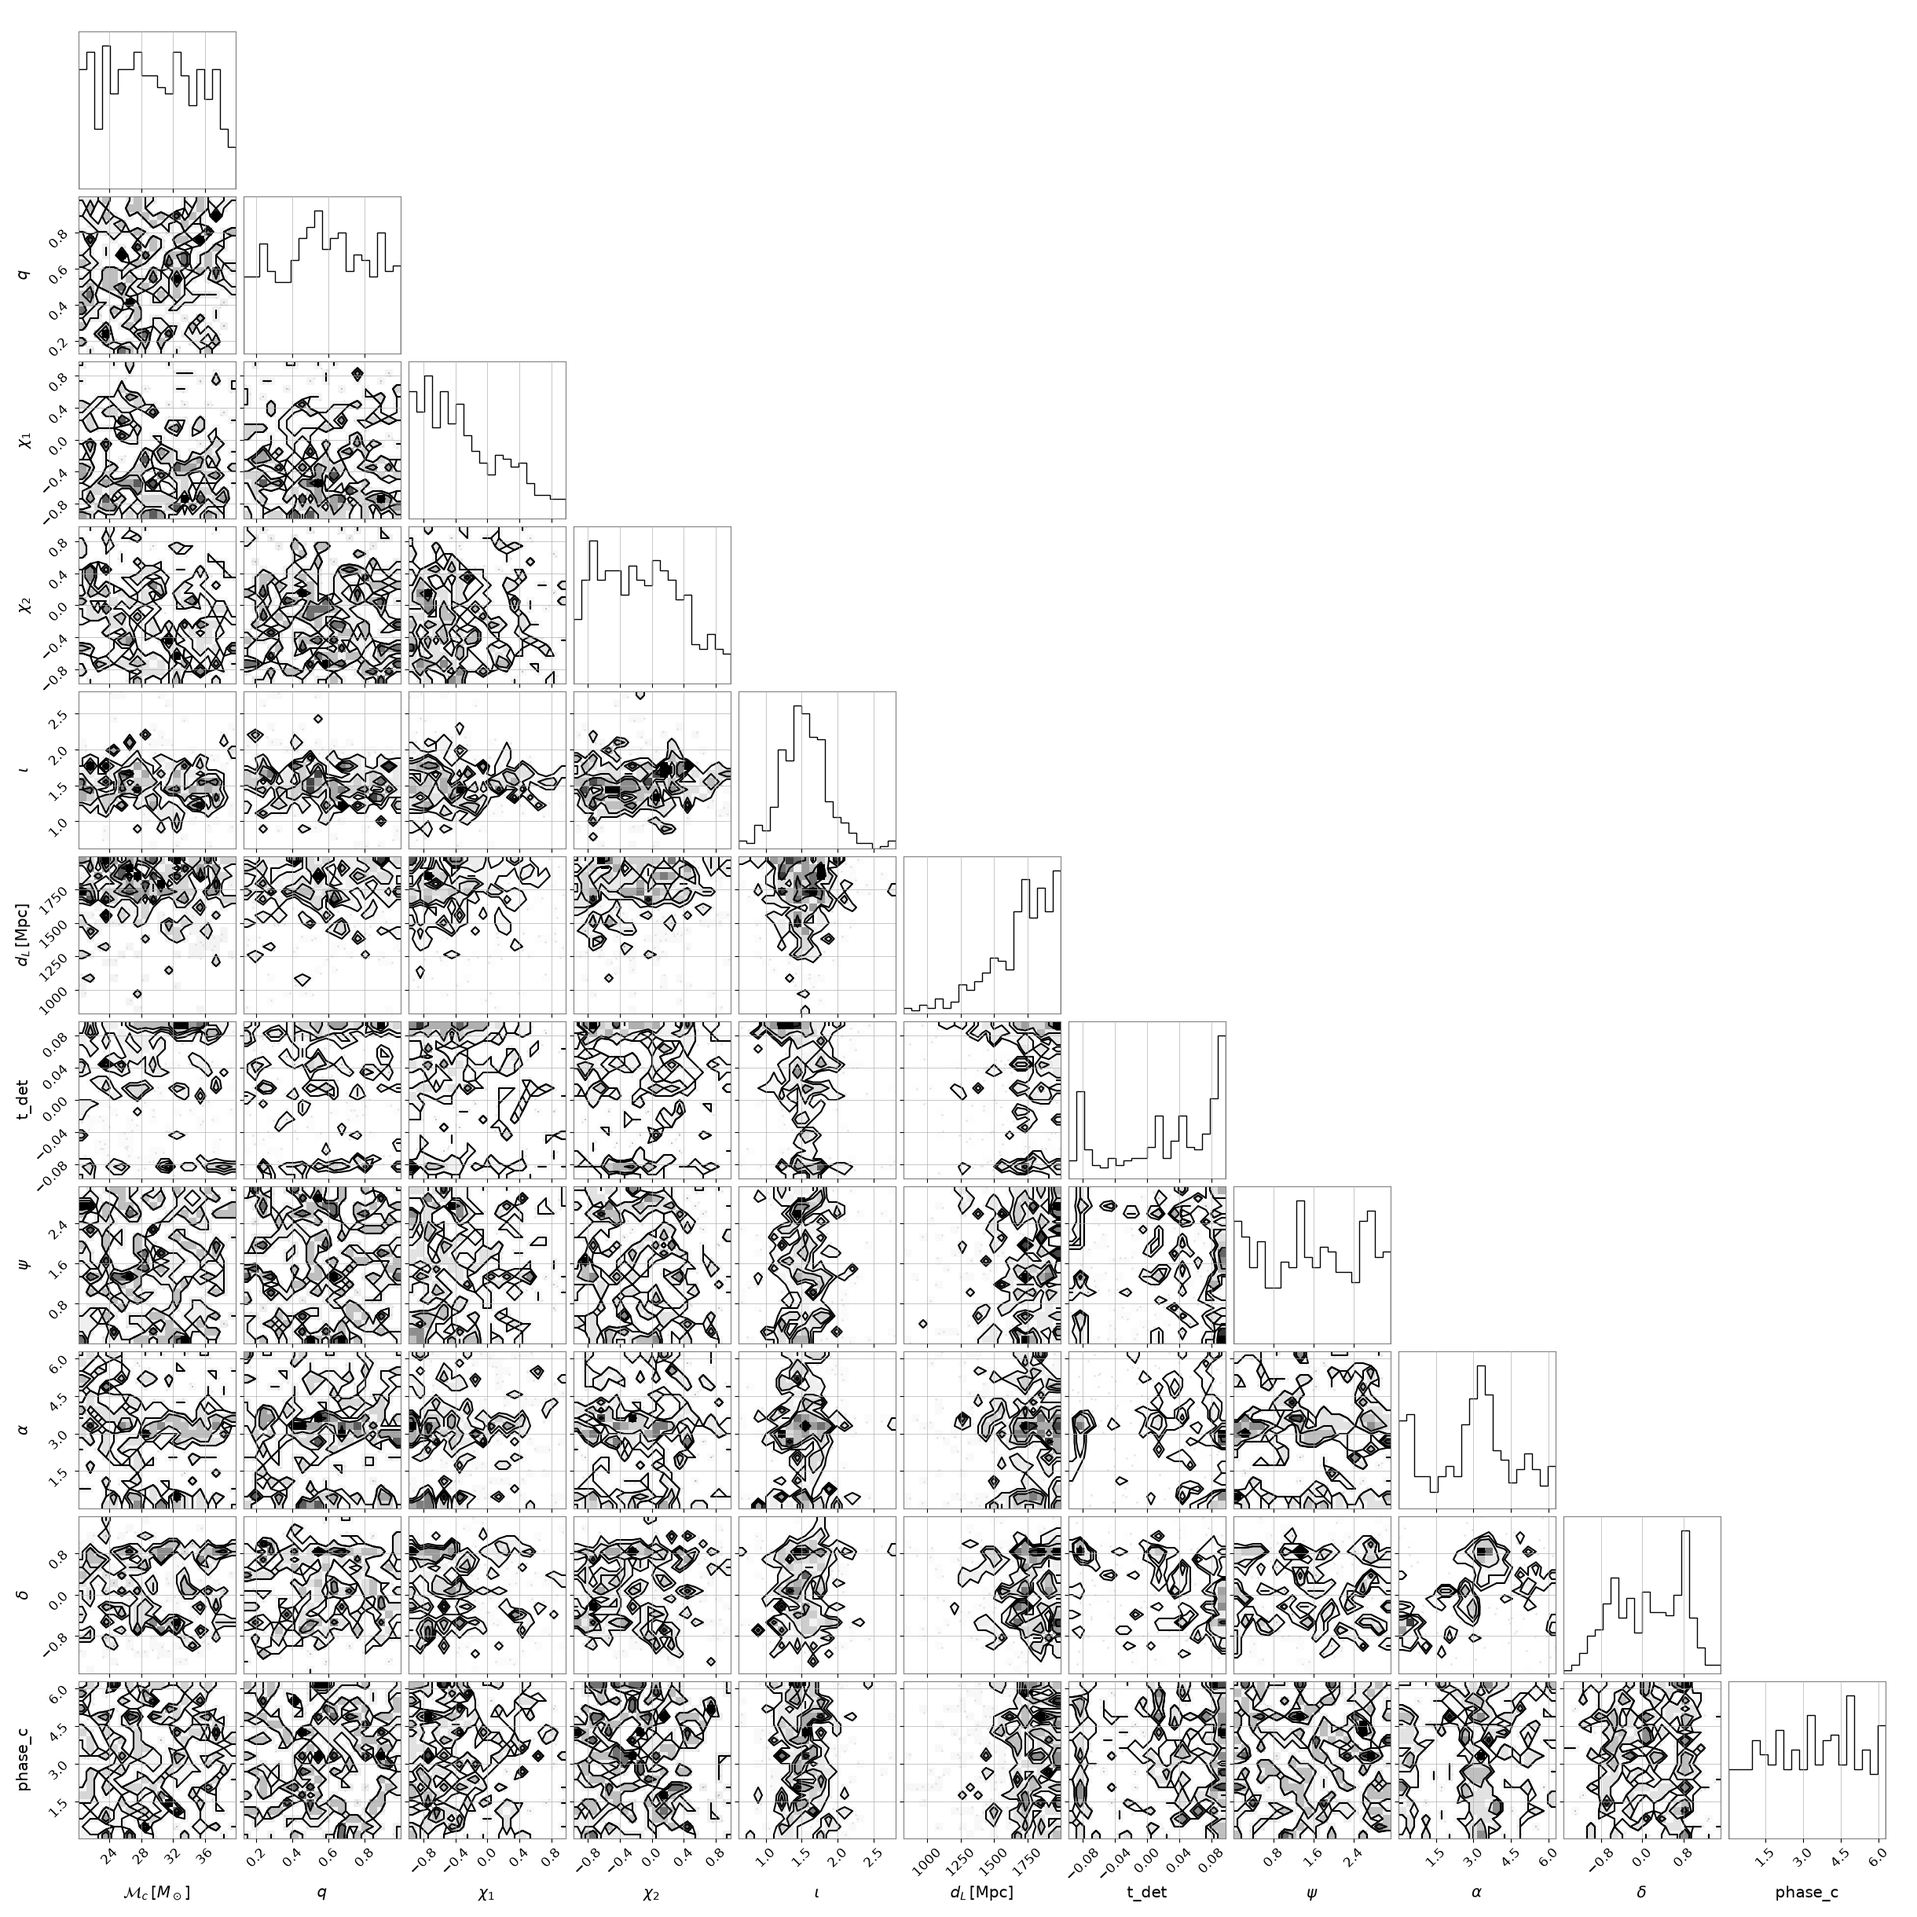
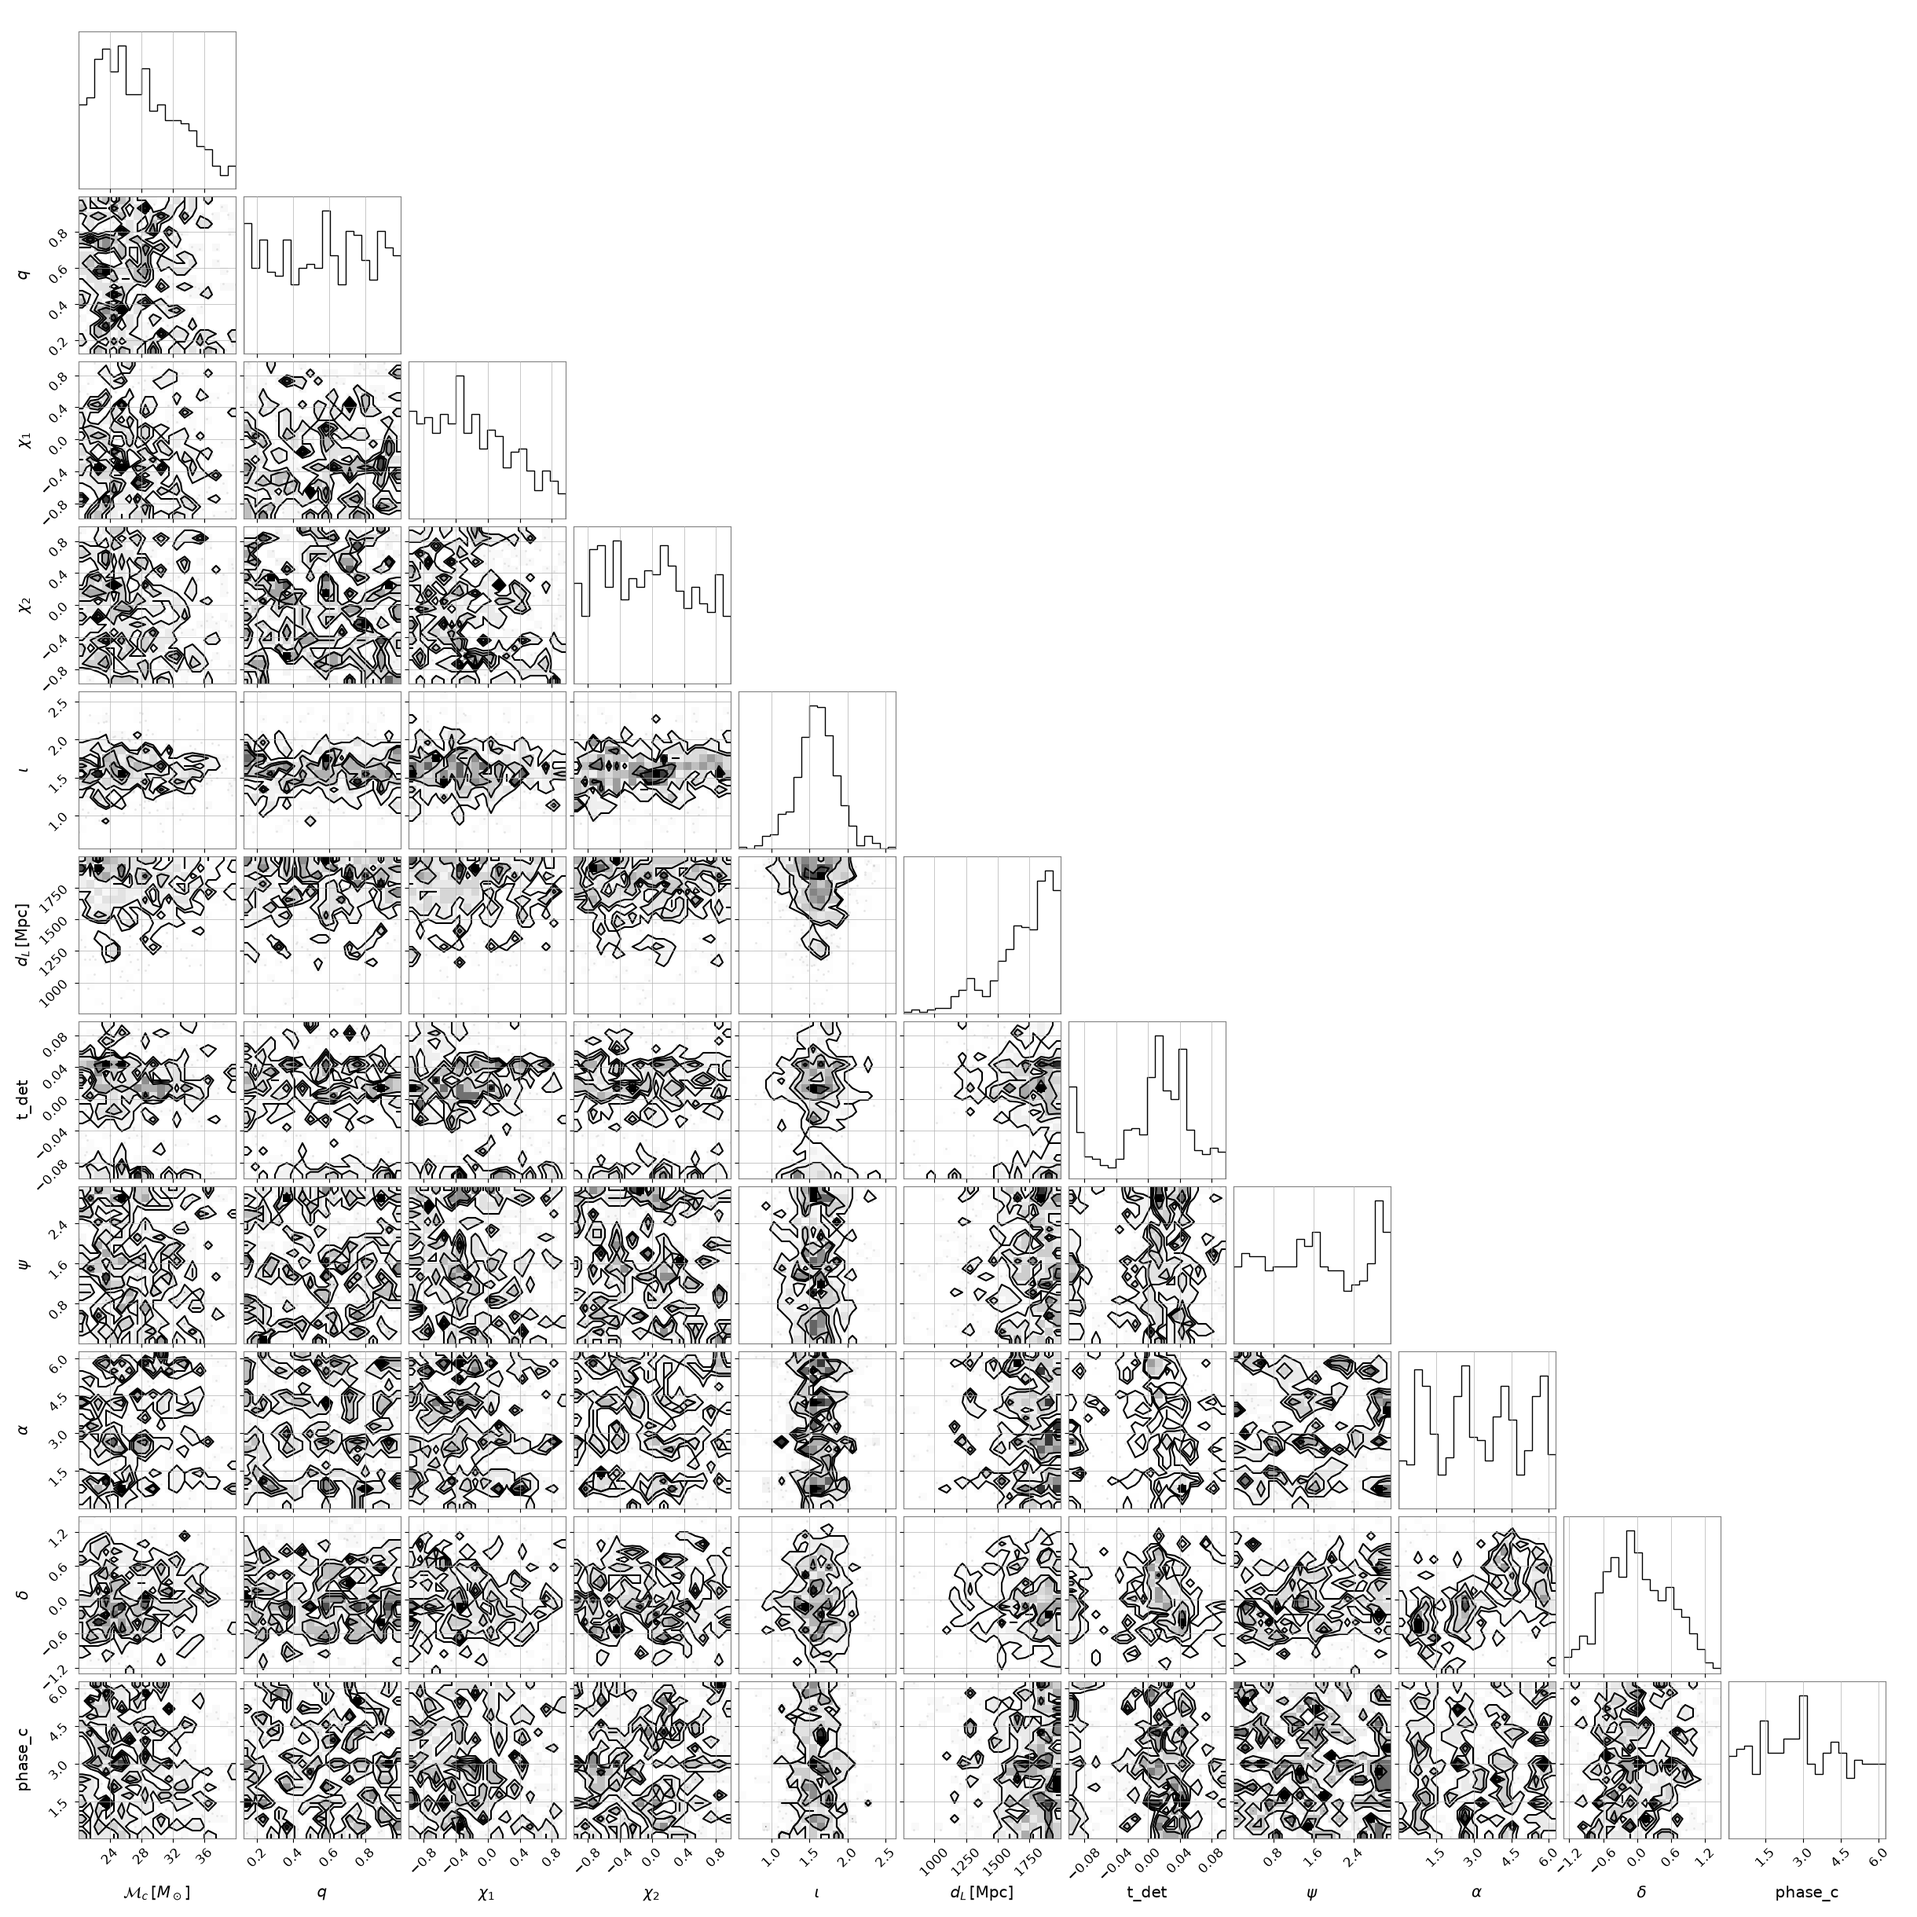
update

Changed region(s): [[0.0, 0.0311, 0.4672, 0.9656], [0.4984, 0.4984, 0.9967, 0.9967], [0.5295, 0.4672, 0.5607, 0.4984]]

diff --git a/Otmar_Thesis/GW150914_NS_AW_multiband_test.py b/Otmar_Thesis/GW150914_NS_AW_multiband_test.py
@@ -9,8 +9,10 @@ has_rocm = shutil.which("rocminfo") is not None or os.path.exists("/opt/rocm")
 if has_rocm:
    os.environ["XLA_FLAGS"] = "--xla_gpu_enable_command_buffer= --xla_gpu_enable_triton_gemm=false" 
    os.environ["HSA_ENABLE_SDMA"] = "0"
+   os.environ["HIP_VISIBLE_DEVICES"] = "0"
    os.environ["XLA_PYTHON_CLIENT_ALLOCATOR"] = "platform" #not sure what this does but helped
    print('Using AMD GPU')
+
 
 #If on Snellius
 else:
